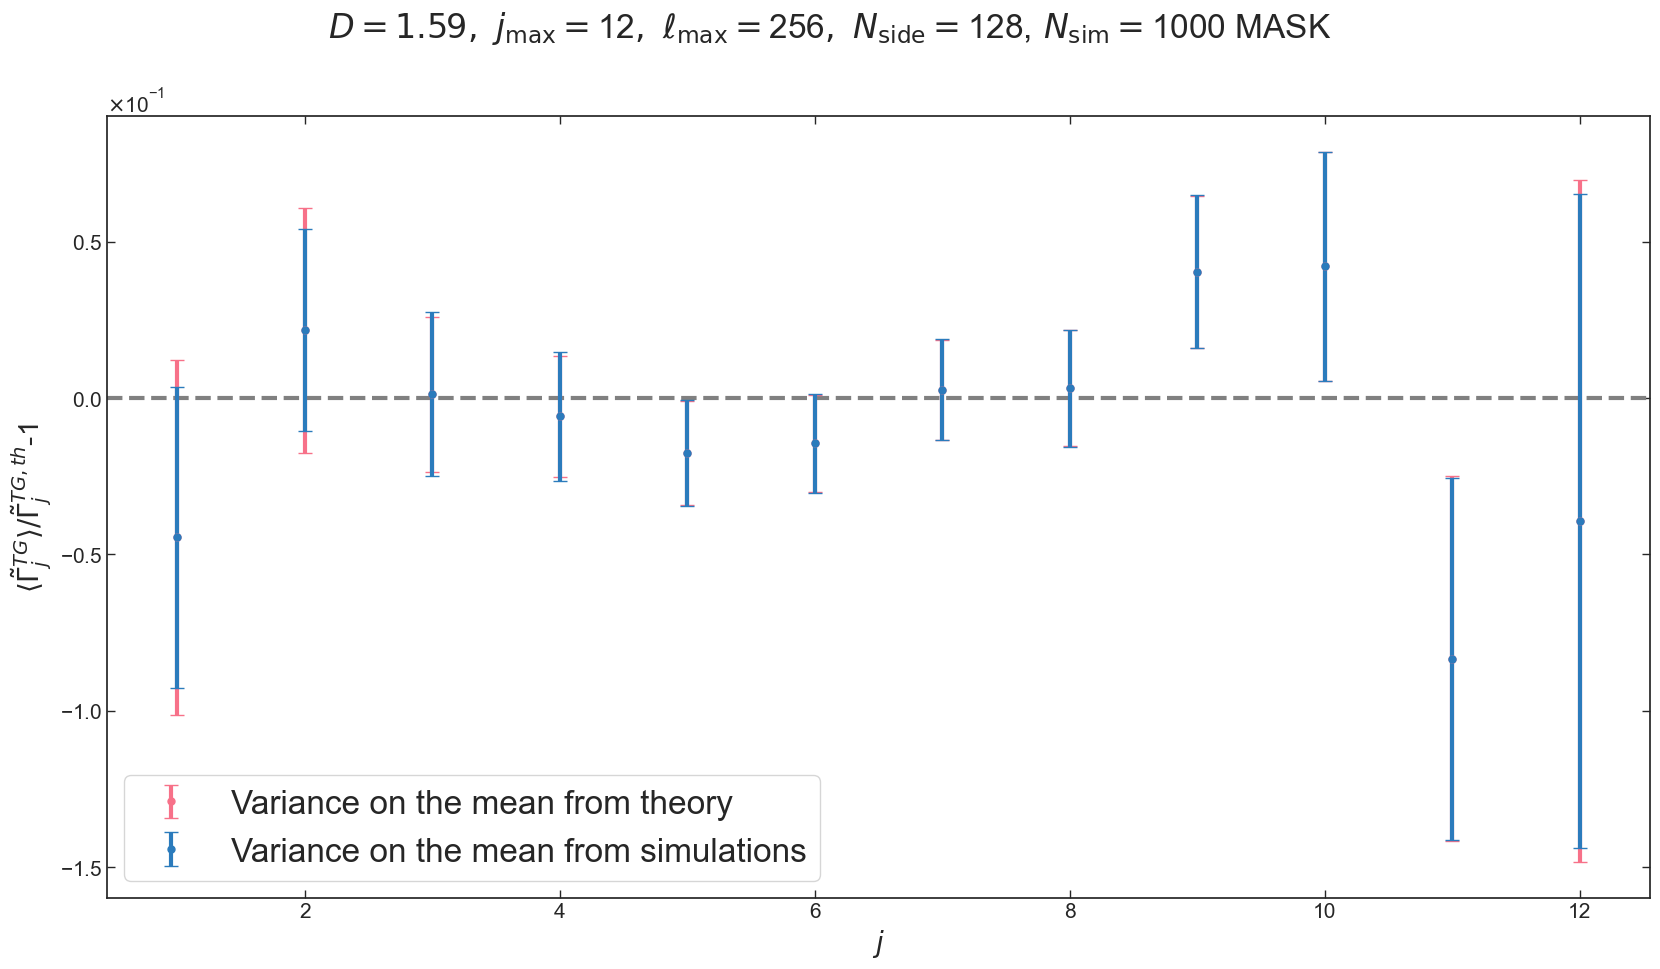
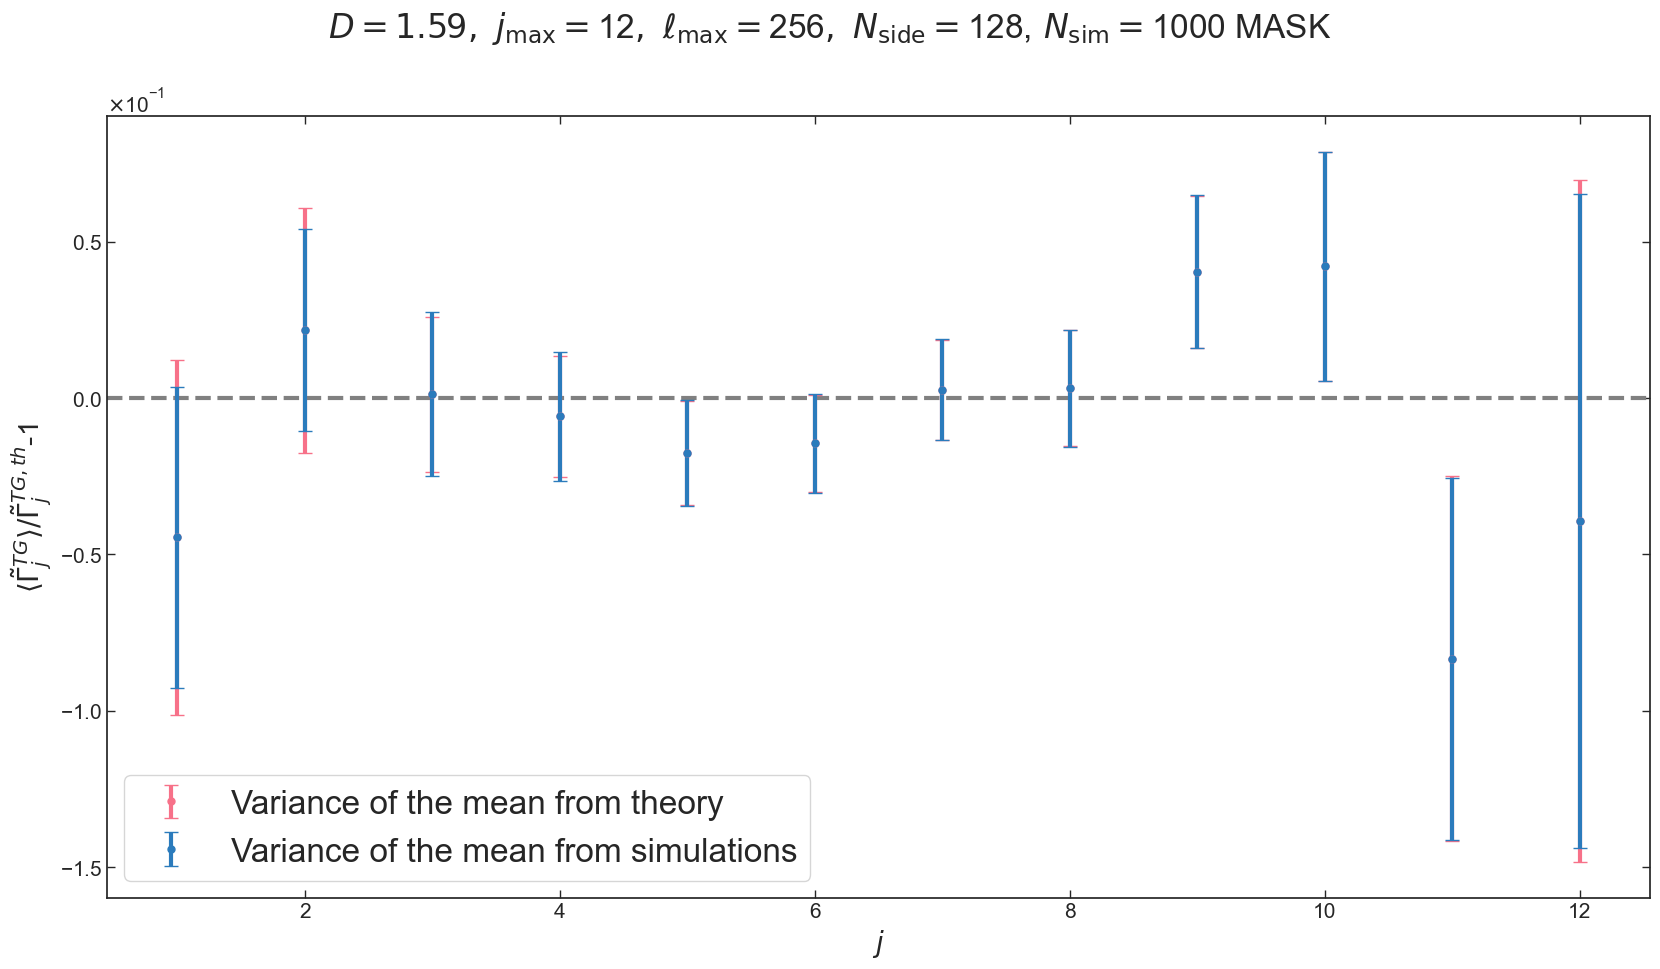
Fixed a plot

Changed region(s): [[0.2458, 0.805, 0.4916, 0.8978]]

diff --git a/src/TG_needlet_EUCLID_mask_noise2_plot_tesi.py b/src/TG_needlet_EUCLID_mask_noise2_plot_tesi.py
@@ -287,8 +287,8 @@ ax.axhline(ls='--', color='grey')
 #ax.errorbar(myanalysis.jvec[1:jmax+1], (betaj_TS_galT_mean[1:jmax+1] /betatg[1:jmax+1]-1), yerr=np.sqrt(np.diag(cov_TS_galT)[1:jmax+1])/(np.sqrt(nsim)*betatg[1:jmax+1]),color='#2b7bbc',  fmt='o', ms=5, label=r'FULL SKY Variance on the mean from simulations')
 
 
-ax.errorbar(myanalysis.jvec[1:jmax+1], (betaj_TS_galT_mask_mean[1:jmax+1] /gammaJ_tg[1:jmax+1]-1), yerr=np.sqrt(np.diag(delta_gammaj)[1:jmax+1])/(np.sqrt(nsim)*gammaJ_tg[1:jmax+1]),  fmt='o', ms=5, label=r'Variance on the mean from theory')
-ax.errorbar(myanalysis.jvec[1:jmax+1], (betaj_TS_galT_mask_mean[1:jmax+1] /gammaJ_tg[1:jmax+1]-1), yerr=np.sqrt(np.diag(cov_TS_galT_mask)[1:jmax+1])/(np.sqrt(nsim)*gammaJ_tg[1:jmax+1]),color='#2b7bbc',  fmt='o', ms=5, label=r'Variance on the mean from simulations')
+ax.errorbar(myanalysis.jvec[1:jmax+1], (betaj_TS_galT_mask_mean[1:jmax+1] /gammaJ_tg[1:jmax+1]-1), yerr=np.sqrt(np.diag(delta_gammaj)[1:jmax+1])/(np.sqrt(nsim)*gammaJ_tg[1:jmax+1]),  fmt='o', ms=5, label=r'Variance of the mean from theory')
+ax.errorbar(myanalysis.jvec[1:jmax+1], (betaj_TS_galT_mask_mean[1:jmax+1] /gammaJ_tg[1:jmax+1]-1), yerr=np.sqrt(np.diag(cov_TS_galT_mask)[1:jmax+1])/(np.sqrt(nsim)*gammaJ_tg[1:jmax+1]),color='#2b7bbc',  fmt='o', ms=5, label=r'Variance of the mean from simulations')
 
 ax.legend(loc='best')
 plt.ticklabel_format(style='sci', axis='y', scilimits=(0,0))
